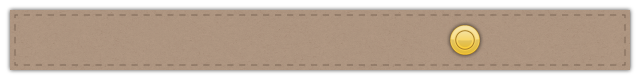
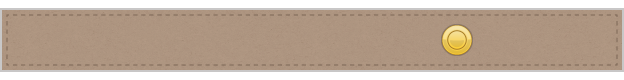
Updated award-alert

diff --git a/src/AwardAlert.js b/src/AwardAlert.js
@@ -9,10 +9,10 @@ var instances = [];
 exports = Class(ImageView, function (supr) {
     this.init = function (opts) {
         opts = merge(opts, {
-            x: 1024/2 - 320,
+            x: 1024/2 - 312,
             y: -80,
             zIndex: 99,
-            width: 640,
+            width: 624,
             height: 80,
             image: 'resources/images/award-alert.png'
         });
